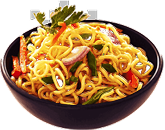
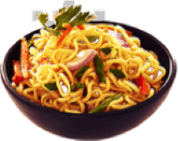
today

diff --git a/src/Screens/Doublecheese.jsx b/src/Screens/Doublecheese.jsx
@@ -56,56 +56,63 @@ const Doublecheese = () => {
             <View style={styles.step1}>
                 <Text style={styles.title}>{title || 'Double Cheese'}{title ? '' : '\nBurger'}</Text>
                 <Text style={styles.title1}>Burger King | Deliver - {price || '#2500'}</Text>
+
                 {image ? <Image source={image} style={styles.foodImage} /> : null}
+
             </View>
             <View style={styles.Card1}>
-                <View style={styles.cardContainer}>
 
-                    <Text style={styles.heading}>Description</Text>
-                    <Text style={styles.description}>
-                        Enjoy the Burger King Double Cheeseburger: two flame-grilled beef
-                        patties layered with melted American cheese, topped with fresh lettuce,
-                        tomato, pickles, and creamy mayo, all nestled in a toasted sesame seed
-                        bun. It's a classic, deliciously satisfying burger experience.
-                    </Text>
 
-                    <View>
-                        <FlatList
-                            data={Burg}
-                            renderItem={burg}
-                            keyExtractor={(item) => item.id}
-                            horizontal
-                            showsHorizontalScrollIndicator={false}
-                        />
-                    </View>
-                    <View style={styles.Quantitycon}>
-                        <View style={styles.actionRow}>
-                            {/* Quantity Selector */}
-                            <View style={styles.quantityPill}>
-                                <TouchableOpacity
-                                    style={styles.counterBtn}
-                                    onPress={() => setQuantity(Math.max(1, quantity - 1))}
-                                >
-                                    <Text style={styles.counterBtnText}>-</Text>
-                                </TouchableOpacity>
+                <Text style={styles.heading}>Description</Text>
+                <Text style={styles.description}>
+                    Enjoy the Burger King Double Cheeseburger: two flame-grilled beef
+                    patties layered with melted American cheese, topped with fresh lettuce,
+                    tomato, pickles, and creamy mayo, all nestled in a toasted sesame seed
+                    bun. It's a classic, deliciously satisfying burger experience.
+                </Text>
 
-                                <Text style={styles.quantityText}>{quantity}</Text>
+                <View>
+                    <FlatList
+                        data={Burg}
+                        renderItem={burg}
+                        keyExtractor={(item) => item.id}
+                        horizontal
+                        showsHorizontalScrollIndicator={false}
+                    />
+                </View>
+                <View style={styles.Quantitycon}>
 
-                                <TouchableOpacity
-                                    style={styles.counterBtn}
-                                    onPress={() => setQuantity(quantity + 1)}
-                                >
-                                    <Text style={styles.counterBtnText}>+</Text>
-                                </TouchableOpacity>
-                            </View>
 
-                            {/* Buy Now Button */}
-                            <TouchableOpacity onPress={() => navigation.navigate('Checkout')} style={styles.buyBtn} activeOpacity={0.85}>
-                                <Text style={styles.buyBtnText}>Buy Now</Text>
+                    <View style={styles.actionRow}>
+                        {/* Quantity Selector */}
+                        <View style={styles.quantityPill}>
+                            <TouchableOpacity
+                                style={styles.counterBtn}
+                                onPress={() => setQuantity(Math.max(1, quantity - 1))}
+                            >
+                                <Text style={styles.counterBtnText}>-</Text>
+                            </TouchableOpacity>
+
+                            <Text style={styles.quantityText}>{quantity}</Text>
+
+                            <TouchableOpacity
+                                style={styles.counterBtn}
+                                onPress={() => setQuantity(quantity + 1)}
+                            >
+                                <Text style={styles.counterBtnText}>+</Text>
                             </TouchableOpacity>
                         </View>
+
+                        {/* Buy Now Button */}
+                        <TouchableOpacity onPress={() => navigation.navigate('Checkout')} style={styles.buyBtn} activeOpacity={0.85}>
+                            <Text style={styles.buyBtnText}>Buy Now</Text>
+                        </TouchableOpacity>
+
                     </View>
+
+
                 </View>
+
             </View>
         </View>
     )
@@ -131,8 +138,8 @@ const styles = StyleSheet.create({
     },
     title: {
         marginTop: 35,
-        fontSize: 24,
-        fontWeight: 'black',
+        fontSize: 28,
+        fontWeight: 'bold',
         color: '#fff'
     },
     title1: {
@@ -142,23 +149,22 @@ const styles = StyleSheet.create({
         color: '#fff'
     },
     foodImage: {
-        resizeMode: 'contain',        
+        marginTop: 10,
+        width: 227,
+        height: 245
     },
     Card1: {
+        height: "50%",
+        width: '100%',
+        backgroundColor: "#FFF",
+        marginTop: 50,
         flex: 1,
-        justifyContent: 'flex-end'
-    },
-    cardContainer: {
-        backgroundColor: '#ffffff',
+        paddingBottom: 24,
+        padding: 15,
         borderTopLeftRadius: 36,
         borderTopRightRadius: 36,
-        paddingHorizontal: 20,
-        paddingTop: 20,
-        paddingBottom: 24,
-        width: '100%',
-        marginTop: 30,
-        minHeight: 490,
     },
+
     heading: {
         fontSize: 26,
         fontWeight: 'bold',
@@ -173,7 +179,7 @@ const styles = StyleSheet.create({
         marginTop: 15
     },
     Burgcon: {
-        marginTop:50,
+        marginTop: 30,
         paddingHorizontal: 20,
 
     },
@@ -201,7 +207,7 @@ const styles = StyleSheet.create({
     actionRow: {
         flexDirection: 'row',
         alignItems: 'center',
-        justifyContent: 'space-between',
+        gap: 30,
     },
     quantityPill: {
         flexDirection: 'row',
@@ -234,13 +240,13 @@ const styles = StyleSheet.create({
     },
     buyBtn: {
         backgroundColor: '#f8931f',
-        borderRadius: 20,
-        paddingVertical: 14,
-        paddingHorizontal: 40,
+        borderRadius: 15,
+        paddingVertical: 8,
+        paddingHorizontal: 20,
         alignItems: 'center',
         justifyContent: 'center',
-        flex: 1,
-        marginLeft: 16,
+
+
     },
     buyBtnText: {
         color: '#ffffff',

diff --git a/src/Screens/Bugerking.jsx b/src/Screens/Bugerking.jsx
@@ -34,15 +34,39 @@ const Bugerking = () => {
     const Burger = [
         {
             id: '1',
-            image: require('../assets/images/pngwing 4.png'),
+            image: require('../assets/images/Burger1.jpg'),
             title: 'Double cheese\nBurger',
             price: '#6,000'
         },
         {
             id: '2',
-            image: require('../assets/images/pngwing 5.png'),
+            image: require('../assets/images/pngwing 4.jpg'),
+            title: 'Veggie Burger',
+            price: '#8,000'
+        },
+        {
+            id: '3',
+            image: require('../assets/images/Burger5.jpg'),
             title: 'Veggie Burger',
             price: '#4,000'
+        },
+        {
+            id: '4',
+            image: require('../assets/images/Burger3.png'),
+            title: 'Veggie Burger',
+            price: '#5,000'
+        },
+        {
+            id: '5',
+            image: require('../assets/images/Burger8.png'),
+            title: 'Veggie Burger',
+            price: '#7,000'
+        },
+        {
+            id: '6',
+            image: require('../assets/images/Burger9.png'),
+            title: 'Veggie Burger',
+            price: '#7,500'
         },
 
     ]
@@ -141,8 +165,8 @@ const styles = StyleSheet.create({
         marginLeft: 55
     },
     title2: {
-        marginTop: 15,
-        marginLeft: 30,
+       
+        padding:20,
         fontSize: 15,
         color: '#fff',
         fontWeight: 'bold',
@@ -150,13 +174,15 @@ const styles = StyleSheet.create({
     },
     pngwing: {
         position: 'absolute',
-        left: -50,
-        bottom: 15
+        left: -40,
+        bottom: 35,
+        width:178,
+        height:178
     },
     title3: {
         position: 'absolute',
-        bottom: 20,
-        left: 30,
+        bottom: 10,
+        left: 35,
         color: '#FFF',
         fontWeight: 'bold',
         fontFamily: 'Inter',
